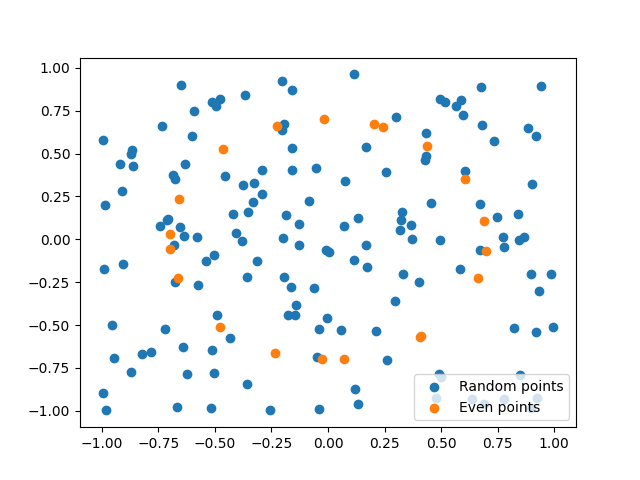
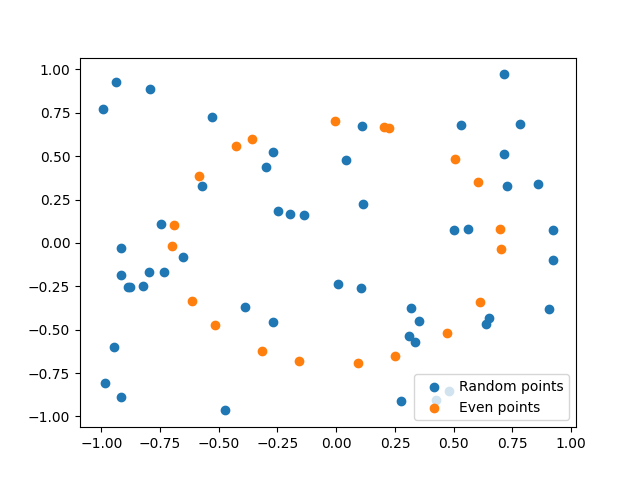
Change quo to rel

diff --git a/src/lib.rs b/src/lib.rs
@@ -160,10 +160,10 @@ pub struct DecompositionEnsemble {
     im: RVDecomposition,
     ker: RVDecomposition,
     cok: RVDecomposition,
-    quo: RVDecomposition,
+    rel: RVDecomposition,
     l_first_mapping: VectorMapping,
     kernel_mapping: VectorMapping,
-    quo_mapping: VectorMapping,
+    rel_mapping: VectorMapping,
     g_elements: Vec<bool>,
     size_of_l: usize,
     size_of_k: usize,
@@ -245,7 +245,7 @@ fn build_kernel_mapping(dim_decomposition: &RVDecomposition) -> VectorMapping {
 
 // WARNING: This functions makes the following assumption:
 // The 0-cells are precisely the cells with empty boundaries
-fn build_quo_mapping(
+fn build_rel_mapping(
     matrix: &Vec<VecColumn>,
     g_elements: &Vec<bool>,
     size_of_l: usize,
@@ -292,11 +292,11 @@ fn build_quo_mapping(
 // If the boundary of a cell is entirely contained in L then that cell is in L
 // This ensures that a 1-cell not in L can have at most 1 vertex in L
 // This makes it easier to map the boundary
-// Also inherits assumption from build_quo_mapping
-fn build_dquo(
+// Also inherits assumption from build_rel_mapping
+fn build_drel(
     matrix: &Vec<VecColumn>,
     g_elements: &Vec<bool>,
-    quo_mapping: &VectorMapping,
+    rel_mapping: &VectorMapping,
     l_index: usize,
     size_of_l: usize,
     size_of_k: usize,
@@ -308,7 +308,7 @@ fn build_dquo(
             continue;
         }
         let mut new_col = col.clone();
-        new_col.reorder_rows(quo_mapping);
+        new_col.reorder_rows(rel_mapping);
         new_matrix.push(new_col);
     }
     new_matrix
@@ -369,7 +369,7 @@ pub fn all_decompositions(matrix: Vec<AnnotatedVecColumn>) -> DecompositionEnsem
     let size_of_l = g_elements.iter().filter(|in_g| **in_g).count();
     let size_of_k = matrix.len();
     let df: Vec<VecColumn> = matrix.into_iter().map(|anncol| anncol.col).collect();
-    let (f, (g, cok), (im, ker, kernel_mapping), (quo, quo_mapping)) = thread::scope(|s| {
+    let (f, (g, cok), (im, ker, kernel_mapping), (rel, rel_mapping)) = thread::scope(|s| {
         let thread1 = s.spawn(|| {
             // Decompose Df
             let out = rv_decompose(df.clone());
@@ -401,18 +401,18 @@ pub fn all_decompositions(matrix: Vec<AnnotatedVecColumn>) -> DecompositionEnsem
             (decompose_dim, decompose_dker, kernel_mapping)
         });
         let thread4 = s.spawn(|| {
-            let (quo_mapping, l_index) = build_quo_mapping(&df, &g_elements, size_of_l, size_of_k);
-            let dquo = build_dquo(
+            let (rel_mapping, l_index) = build_rel_mapping(&df, &g_elements, size_of_l, size_of_k);
+            let drel = build_drel(
                 &df,
                 &g_elements,
-                &quo_mapping,
+                &rel_mapping,
                 l_index,
                 size_of_l,
                 size_of_k,
             );
-            let decompose_dquo = rv_decompose(dquo);
-            println!("Decomposed quo");
-            (decompose_dquo, quo_mapping)
+            let decompose_drel = rv_decompose(drel);
+            println!("Decomposed rel");
+            (decompose_drel, rel_mapping)
         });
         (
             thread1.join().unwrap(),
@@ -427,11 +427,11 @@ pub fn all_decompositions(matrix: Vec<AnnotatedVecColumn>) -> DecompositionEnsem
         im,
         ker,
         cok,
-        quo,
+        rel,
         g_elements,
         l_first_mapping,
         kernel_mapping,
-        quo_mapping,
+        rel_mapping,
         size_of_l,
         size_of_k,
     }
@@ -518,7 +518,7 @@ struct DiagramEnsemble {
     #[pyo3(get)]
     cok: PersistenceDiagram,
     #[pyo3(get)]
-    quo: PersistenceDiagram,
+    rel: PersistenceDiagram,
 }
 
 impl DecompositionEnsemble {
@@ -632,9 +632,9 @@ impl DecompositionEnsemble {
                 dgm.unreorder_idxs(&self.l_first_mapping);
                 dgm
             },
-            quo: {
-                let mut dgm = self.quo.diagram();
-                dgm.unreorder_idxs(&self.quo_mapping);
+            rel: {
+                let mut dgm = self.rel.diagram();
+                dgm.unreorder_idxs(&self.rel_mapping);
                 dgm
             },
             im: self.image_diagram(),

diff --git a/big_test.py b/big_test.py
@@ -7,7 +7,7 @@ import seaborn as sns
 import pandas as pd
 import random
 
-N = 150
+N = 50
 N_nice = 20
 max_diagram_dim = 1
 jitter_strength = 0.05
@@ -136,12 +136,12 @@ plot_diagram(
     max_dim=max_diagram_dim,
 )
 plot_diagram(
-    dgms.quo,
+    dgms.rel,
     entrance_times,
     dimensions,
     truncation,
     ax=axes[0][1],
-    title="Quotient",
+    title="Relative",
     max_dim=max_diagram_dim + 1,
 )
 plot_diagram(

diff --git a/test.py b/test.py
@@ -38,6 +38,6 @@ print("cok:")
 print(dgms.cok.unpaired)
 print(dgms.cok.paired)
 
-print("quo:")
-print(dgms.quo.unpaired)
-print(dgms.quo.paired)
+print("rel:")
+print(dgms.rel.unpaired)
+print(dgms.rel.paired)
